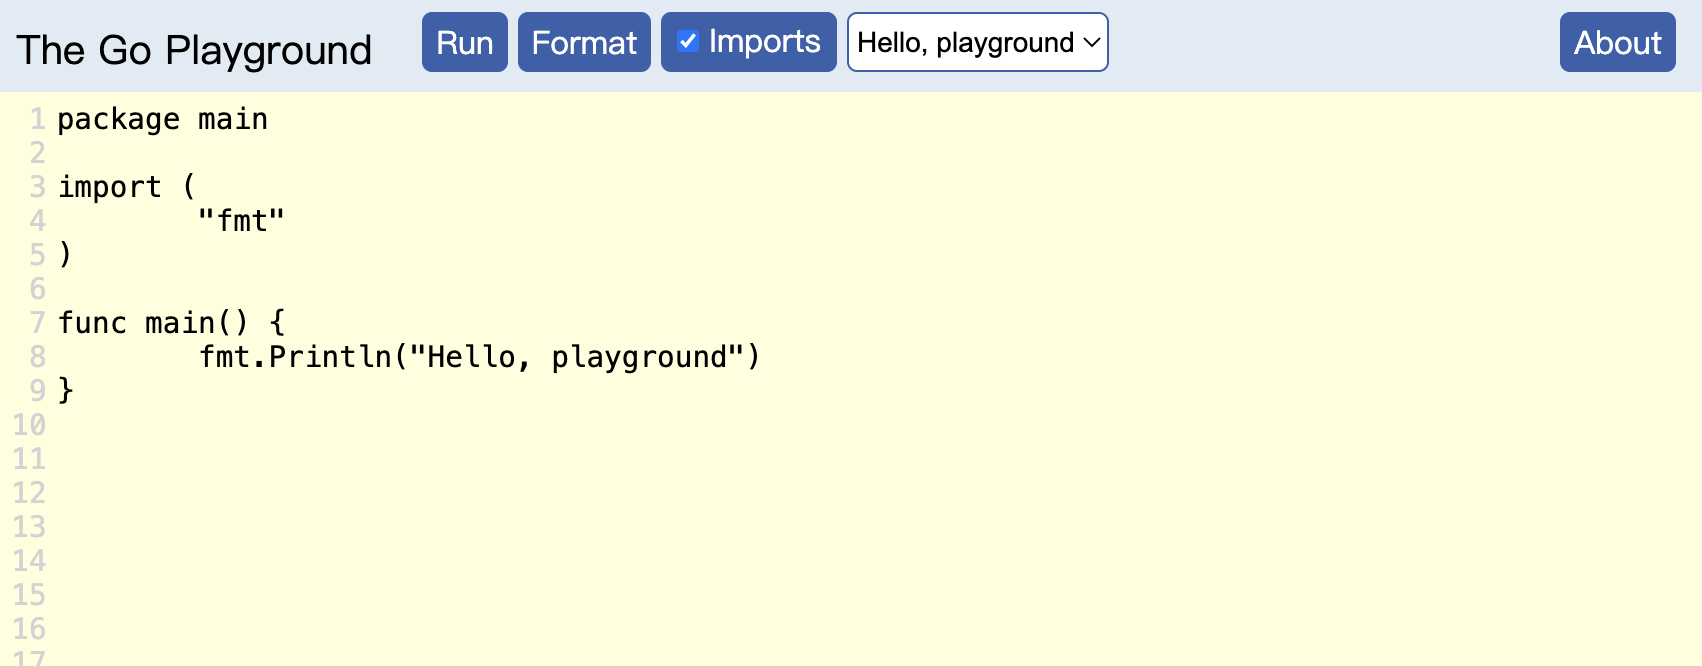
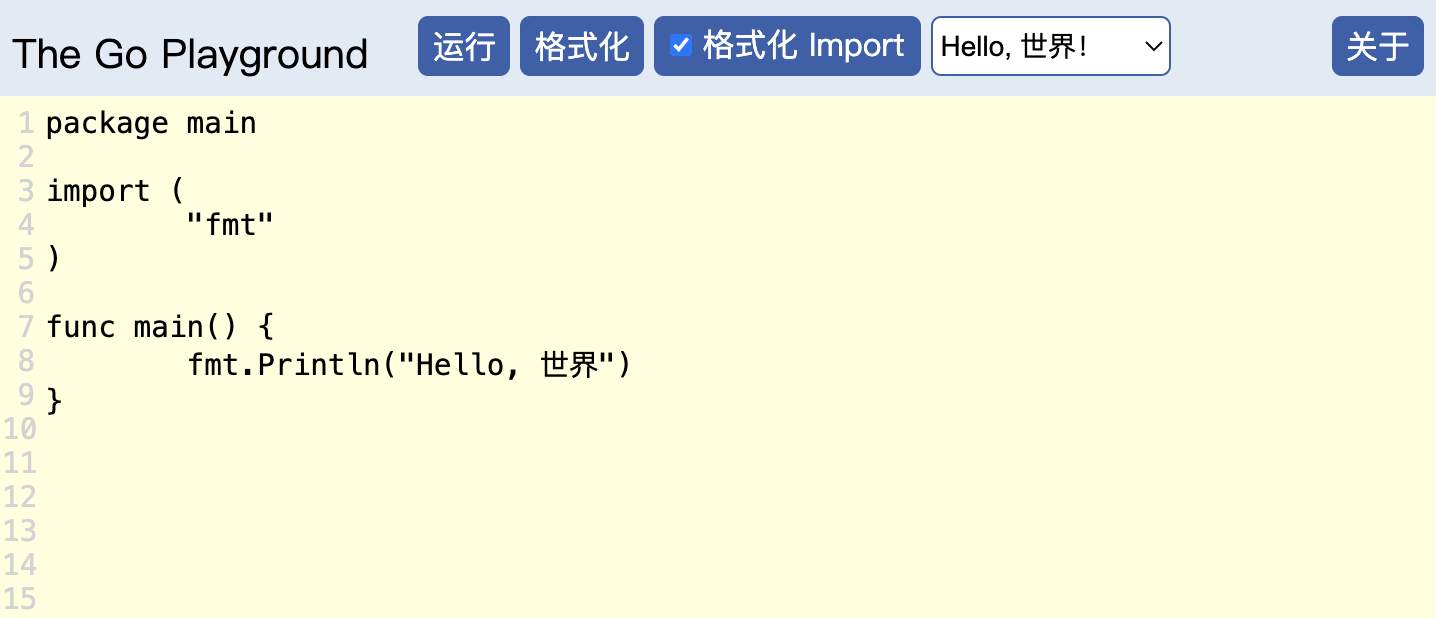
docs: update docs

Changed region(s): [[0.0, 0.0, 1.0, 1.0]]

diff --git a/README.md b/README.md
@@ -6,11 +6,12 @@
 
 ## 项目特点
 
-- 支持完全离线运行，无需“联网”，不需担心有任何信息泄漏的风险（比如包含密钥的程序）
-- 支持使用容器进行快速启动，不锁定任何公有云或者复杂的运行环境
-- 和官方程序一样，使用沙盒方式运行 Golang 程序，确保使用安全
-- 和官方程序一样，固定输出时间，让程序能够提供确定性的输出，让程序复现和结果缓存变的更加容易
-- 合并了来自 `go.dev` 的默认示例
+- 支持完全离线运行，无需“联网”，不需担心有任何信息泄漏的风险（比如包含密钥的程序）。
+- 支持使用容器进行快速启动，不锁定任何公有云或者复杂的运行环境。
+- 和官方程序一样，使用沙盒方式运行 Golang 程序，确保运行程序安全，无副作用。
+- 和官方程序一样，使用 `faketime` “模块”，让程序能够提供确定性的输出，让程序复现和结果缓存变的更加容易。
+- 合并了来自 `go.dev` 的默认示例，并进行了适当的界面“汉化”。
+- 大幅精简程序模块和依赖，减少不必要的资源消耗。
 
 ## 快速开始
 
